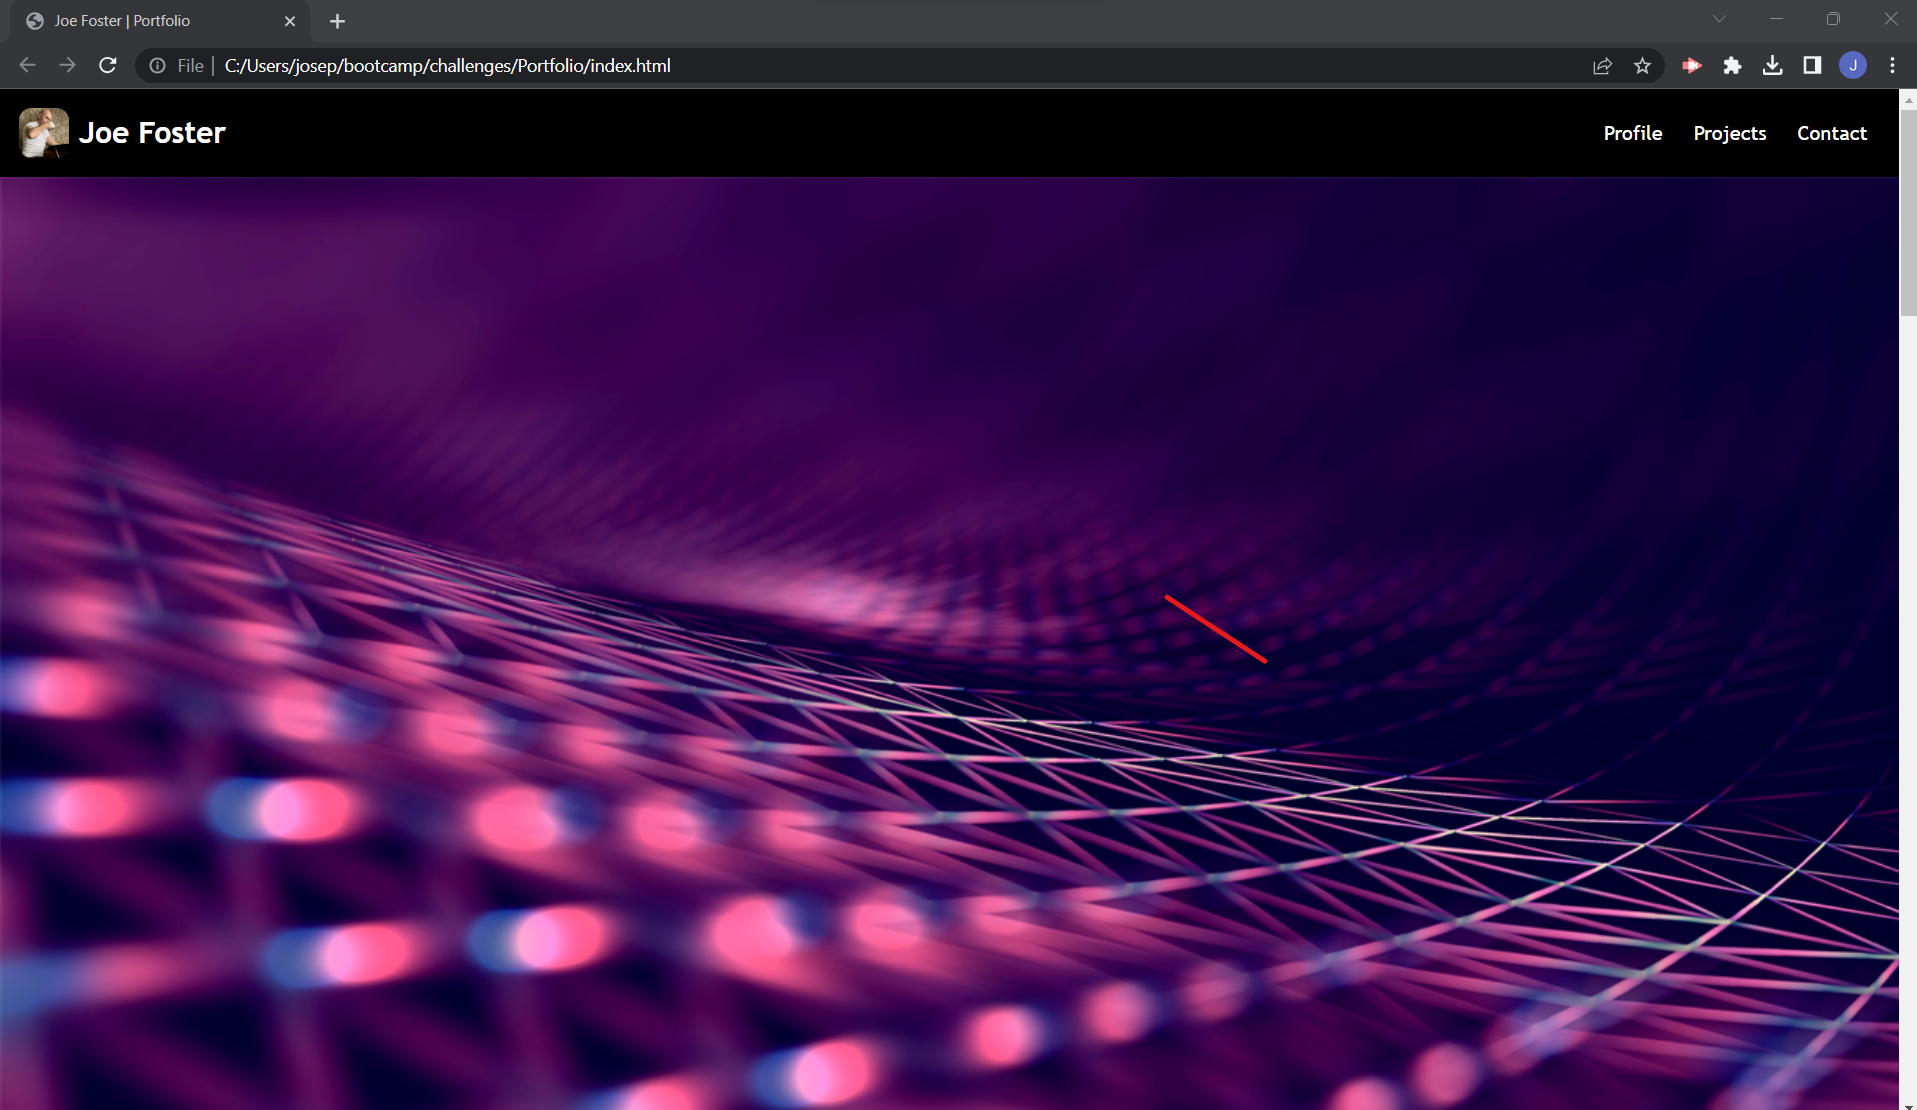
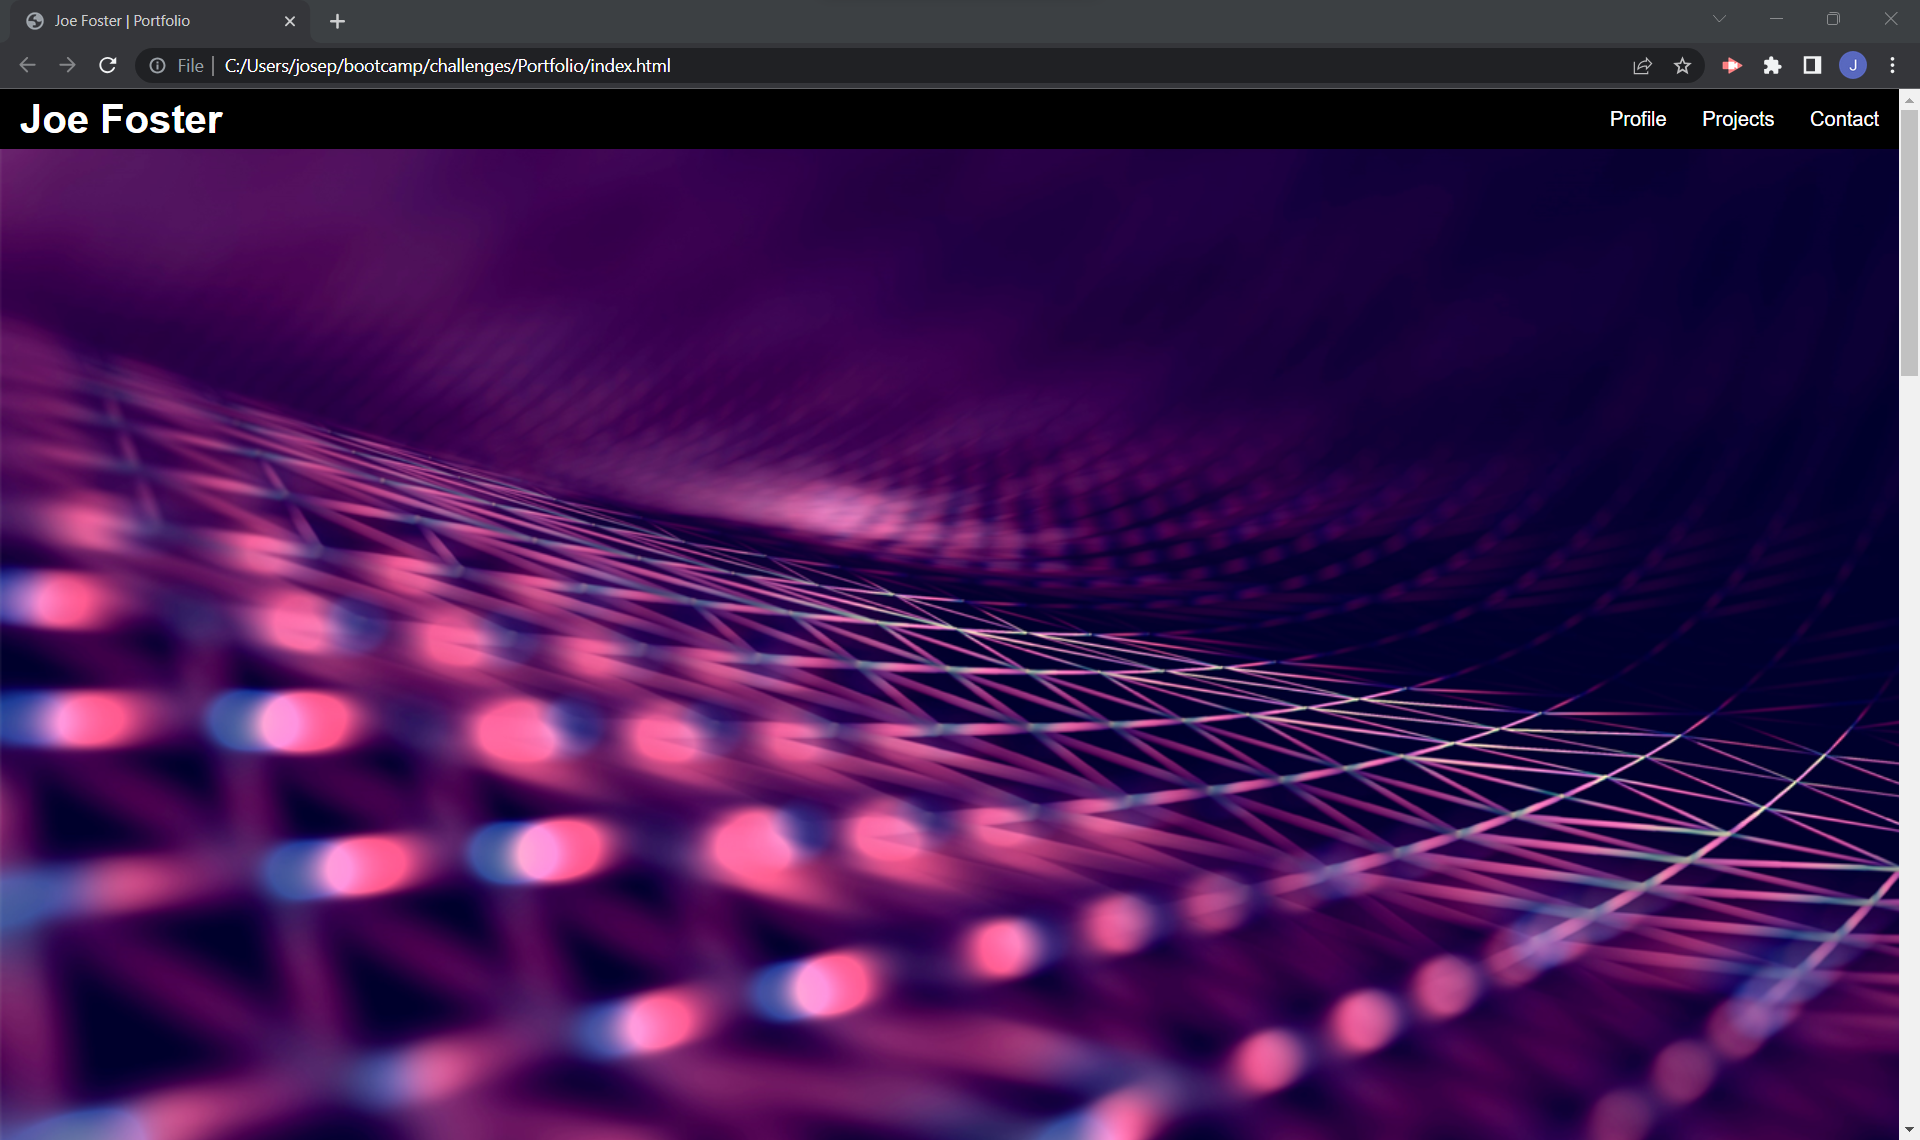
reformat

diff --git a/assets/style.css b/assets/style.css
@@ -72,13 +72,11 @@ nav a:hover {
 main {
     display: flex;
     flex-direction: column;
-}
-
-.align {
-    border: none;
+    text-align: center;
 }
 
 h2 {
+    float: left;
     padding-top: 16px;
     padding-bottom: 16px;
     font-size: 200%;
@@ -96,7 +94,7 @@ h2 {
     flex-direction: column;
     align-items: center;
     padding-top: 2%;
-    padding-bottom: 5%;
+    padding-bottom: 4%;
 }
 
 .tile {
@@ -135,7 +133,7 @@ p {
 }
 
 .top {
-    padding-top: 24px;
+    padding-top: 4%;
 }
 
 .footer {
@@ -147,7 +145,7 @@ p {
     color: var(--light);
 }
 
-@media screen and (max-width: 875px) {
+@media screen and (max-width: 925px) {
     .tiles {
        width: 100%;
        display: flex;

diff --git a/index.html b/index.html
@@ -35,8 +35,9 @@
     <main>
         
         <section id="Profile" class="segments">
-            <h2>Profile</h2>
-                <p>Student</p>
+            <div class="border">
+                <h2>Profile</h2>
+            </div>
                 <p>HTML</p>
                 <p>CSS</p>
                 <p>JavaScript</p>
